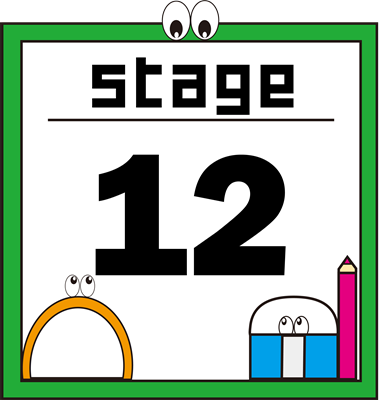
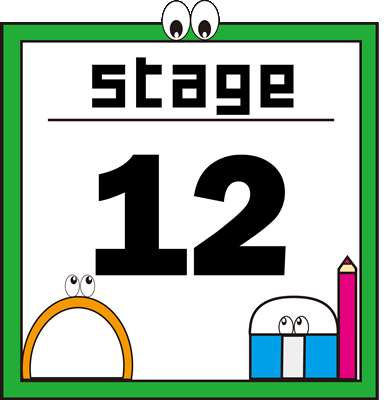
UIのアニメーションの実装
・一定間隔でビヨンド君、選択中のステージUIが伸び縮みするように変更
・背景の変更

Changed region(s): [[0.4627, 0.0, 0.5553, 0.03], [0.5553, 0.03, 0.5861, 0.06], [0.401, 0.03, 0.4319, 0.06]]

diff --git a/Hew2025_ProtoType/Scene/03_StageSelectScene/StageSelectScene.cpp b/Hew2025_ProtoType/Scene/03_StageSelectScene/StageSelectScene.cpp
@@ -28,29 +28,34 @@ StageSelectScene::StageSelectScene()
     this->p_sampler = nullptr;
     this->p_brendState = nullptr;
 }
+
 /**	@brief 	デストラクタ
 */
 StageSelectScene::~StageSelectScene()
 {
 	this->Finalize();
 }
+
 /**	@brief 	シーン全体の初期化
 */
 void	StageSelectScene::Initialize(void)
 {    
+    // 時刻の設定
+    this->lastUpdateTime = std::chrono::steady_clock::now();
+
     // カメラ
     if (!this->p_camera) { this->p_camera = new Camera; }
     this->p_camera->SetPosition(0.0f, 0.0f);
 
     //--------------------------------------------------------------------------
     //		 オブジェクト
-    //--------------------------------------------------------------------------	
+    //--------------------------------------------------------------------------
 
     // 背景
     if (!this->p_background) { this->p_background = new Object(this->p_camera); }
-    this->p_background->Init(L"Asset/back_img_01.png");
-    this->p_background->SetPos(0.0f, 0.0f, 0.0f);
-    this->p_background->SetSize(1920.0f, 1080.0f, 0.0f);
+    this->p_background->Init(L"Asset/background.png");
+    this->p_background->SetPos(-200.0f, 0.0f, 0.0f);
+    this->p_background->SetSize(1920.0f*2, 1080.0f*2, 0.0f);
 
     // ステージUI
 	int half = static_cast<int>(Stage::MAX) / 2;
@@ -100,7 +105,7 @@ void	StageSelectScene::Initialize(void)
     }
 
     // ビヨンド君傾ける
-    this->p_UI[static_cast<int>(SelectUI::BIYOND)]->SetAngle(-40.0f);
+    this->p_UI[static_cast<int>(SelectUI::BIYOND)]->SetAngle(-35.0f);
 
     // ポインター
     if (!this->p_point) { this->p_point = new PointCollider(DirectX::XMFLOAT3(0.0f, 0.0f, 0.0f)); }
@@ -212,10 +217,14 @@ void	StageSelectScene::Initialize(void)
     }
 }
 
-/**	@brief 	シーン全体の更新
+/** @brief  シーン全体の更新
 */
-void	StageSelectScene::Update(void)
+void StageSelectScene::Update(void)
 {
+    // 経過時間の計測
+    auto currentTime = std::chrono::steady_clock::now();
+    this->elapsedTime = currentTime - this->lastUpdateTime;
+
     this->p_input->Update();
 
     // ステージUIの移動
@@ -223,11 +232,15 @@ void	StageSelectScene::Update(void)
     if (this->p_input->Trigger("LEFT"))
     {
         movePos = this->stageUISize + this->space;
+        this->isSelect = true;
     }
     else if (this->p_input->Trigger("RIGHT"))
     {
         movePos = -this->stageUISize - this->space;
+        this->isSelect = true;
     }
+
+    // ステージがループするように処理
     for (int i = static_cast<int>(Stage::STAGE_1); i < static_cast<int>(Stage::MAX); i++)
     {
         auto pos = this->p_stageUI[i]->GetPos();
@@ -235,8 +248,8 @@ void	StageSelectScene::Update(void)
 
         auto& coll = this->p_stageUI[i]->GetCollider();
         // 左端なら右端に
-        if(coll.CheckCollision(*this->p_leftUI))
-        { 
+        if (coll.CheckCollision(*this->p_leftUI))
+        {
             this->p_stageUI[i]->SetPos(rightUIPos.x, rightUIPos.y, rightUIPos.z);
         }
         // 右端なら左端に
@@ -246,90 +259,49 @@ void	StageSelectScene::Update(void)
         }
     }
 
-    // 選択中のステージ
-    int sceneNum = 0;
-    for (int i = static_cast<int>(Stage::STAGE_1); i < static_cast<int>(Stage::MAX); i++)
+    // 選択中のステージを保持
+    if (this->isSelect)
     {
-        auto& coll = this->p_stageUI[i]->GetCollider();
-
-        if (this->p_point->CheckCollision(coll))
+        for (int i = static_cast<int>(Stage::STAGE_1); i < static_cast<int>(Stage::MAX); i++)
         {
-            //std::cout << std::to_string(i+1) << "ステージ" << std::endl;
-            // 選択中のステージを大きくする
-            this->p_stageUI[i]->SetSize(this->stageUISizeSelect, this->stageUISizeSelect, 0.0f);
-            this->p_stageUI[i]->SetPos(0.0f,(this->stageUISizeSelect - this->stageUISize) / 2.0f - 50.0f, 0.0f);
-            sceneNum = i;
+            auto& coll = this->p_stageUI[i]->GetCollider();
+
+            if (this->p_point->CheckCollision(coll))
+            {
+                // 選択中のステージを大きくする
+                this->p_stageUI[i]->SetSize(this->stageUISizeSelect, this->stageUISizeSelect, 0.0f);
+                this->p_stageUI[i]->SetPos(0.0f, (this->stageUISizeSelect - this->stageUISize) / 2.0f - 50.0f, 0.0f);
+                this->stageNum = i;
+            }
+            // サイズリセット
+            else
+            {
+                this->p_stageUI[i]->SetSize(this->stageUISize, this->stageUISize, 0.0f);
+                this->p_stageUI[i]->SetPos(this->p_stageUI[i]->GetPos().x, -50.0f, 0.0f);
+            }
         }
-        // サイズリセット
-        else 
-        { 
-            this->p_stageUI[i]->SetSize(this->stageUISize, this->stageUISize, 0.0f);
-            this->p_stageUI[i]->SetPos(this->p_stageUI[i]->GetPos().x, -50.0f, 0.0f);
-        }
+        this->isSelect = false;
+        this->isStretch = false;
+        this->lastUpdateTime = std::chrono::steady_clock::now();
+
+        // ビヨンド君のリサイズ
+        auto sizeBiyond = this->UISize[static_cast<int>(SelectUI::BIYOND)];
+        this->p_UI[static_cast<int>(SelectUI::BIYOND)]->SetSize(sizeBiyond.x, sizeBiyond.y, sizeBiyond.z);
     }
 
     // 選択中のステージに飛ぶ
     if (this->p_input->Press("SPACE"))
     {
-        //this->p_point->SetPosition(DirectX::XMFLOAT3(300.0f, 300.0f, 0.0f));
-        switch (static_cast<StageSelectScene::Stage>(sceneNum))
-        {
-        case StageSelectScene::Stage::STAGE_1:
-            this->p_sceneManager->ChangeScene(Scene::Stage_1);
-            return;
-            break;
-        case StageSelectScene::Stage::STAGE_2:
-            this->p_sceneManager->ChangeScene(Scene::Stage_2);
-            return;
-            break;
-        case StageSelectScene::Stage::STAGE_3:
-            this->p_sceneManager->ChangeScene(Scene::Stage_3);
-            return;
-            break;
-        case StageSelectScene::Stage::STAGE_4:
-            this->p_sceneManager->ChangeScene(Scene::Stage_4);
-            return;
-            break;
-        case StageSelectScene::Stage::STAGE_5:
-            this->p_sceneManager->ChangeScene(Scene::Stage_5);
-            return;
-            break;
-        case StageSelectScene::Stage::STAGE_6:
-            this->p_sceneManager->ChangeScene(Scene::Stage_6);
-            return;
-            break;
-        case StageSelectScene::Stage::STAGE_7:
-            this->p_sceneManager->ChangeScene(Scene::Stage_7);
-            return;
-            break;
-        case StageSelectScene::Stage::STAGE_8:
-            this->p_sceneManager->ChangeScene(Scene::Stage_8);
-            return;
-            break;
-        case StageSelectScene::Stage::STAGE_9:
-            this->p_sceneManager->ChangeScene(Scene::Stage_9);
-            return;
-            break;
-        case StageSelectScene::Stage::STAGE_10:
-            this->p_sceneManager->ChangeScene(Scene::Stage_10);
-            return;
-            break;
-        case StageSelectScene::Stage::STAGE_11:
-            this->p_sceneManager->ChangeScene(Scene::Stage_11);
-            return;
-            break;
-        case StageSelectScene::Stage::STAGE_12:
-            this->p_sceneManager->ChangeScene(Scene::Stage_12);
-            return;
-            break;
-        default:
-            break;
-        }
+        this->SelectStage(this->stageNum);
+        return;
     }
 
+    // アニメーション
+    this->AnimateUI();
+
     //--------------------------------------------------------------------------
-    //		オブジェクトの更新
-    //--------------------------------------------------------------------------	
+    //      オブジェクトの更新
+    //--------------------------------------------------------------------------    
     this->p_background->Update();
     for (int i = static_cast<int>(Stage::STAGE_1); i < static_cast<int>(Stage::MAX); i++)
     {
@@ -342,6 +314,40 @@ void	StageSelectScene::Update(void)
 
     // カメラの更新
     this->p_camera->Update();
+}
+
+/** @brief UIのアニメーション処理 
+*/
+void StageSelectScene::AnimateUI()
+{
+    // 伸ばす
+    if (!this->isStretch)
+    {
+        auto sizeStage = this->p_stageUI[this->stageNum]->GetSize();
+        auto sizeBiyond = this->p_UI[static_cast<int>(SelectUI::BIYOND)]->GetSize();
+
+        this->p_stageUI[stageNum]->SetSize(sizeStage.x + 2.5f, sizeStage.y + 2.5f, sizeStage.z);
+        this->p_UI[static_cast<int>(SelectUI::BIYOND)]->SetSize(sizeBiyond.x + 4.0f, sizeBiyond.y + 2.0f, sizeBiyond.z);
+
+    }
+
+    // 縮める
+    else
+    {
+        auto sizeStage = this->p_stageUI[stageNum]->GetSize();
+        auto sizeBiyond = this->p_UI[static_cast<int>(SelectUI::BIYOND)]->GetSize();
+
+        this->p_stageUI[stageNum]->SetSize(sizeStage.x - 2.5f, sizeStage.y - 2.5f, sizeStage.z);
+        this->p_UI[static_cast<int>(SelectUI::BIYOND)]->SetSize(sizeBiyond.x - 4.0f, sizeBiyond.y - 2.0f, sizeBiyond.z);
+
+    }
+
+    // 経過時間のリセット
+    if (this->elapsedTime > this->interval)
+    {
+        this->isStretch = !this->isStretch;
+        this->lastUpdateTime = std::chrono::steady_clock::now();
+    }
 }
 
 /**	@brief 	シーン全体の描画
@@ -412,4 +418,53 @@ void	StageSelectScene::Finalize(void)
     SAFE_DELETE(this->p_sampler);       // サンプラー
 
     SAFE_RELEASE(this->p_brendState);   // ブレンドステート
+}
+
+/**	@brief 	ステージの選択
+*	@param	in&t _stageNum
+*/
+void StageSelectScene::SelectStage(int& _stageNum)
+{
+    switch (static_cast<StageSelectScene::Stage>(_stageNum))
+    {
+    case StageSelectScene::Stage::STAGE_1:
+        this->p_sceneManager->ChangeScene(Scene::Stage_1);
+        break;
+    case StageSelectScene::Stage::STAGE_2:
+        this->p_sceneManager->ChangeScene(Scene::Stage_2);
+        break;
+    case StageSelectScene::Stage::STAGE_3:
+        this->p_sceneManager->ChangeScene(Scene::Stage_3);
+        break;
+    case StageSelectScene::Stage::STAGE_4:
+        this->p_sceneManager->ChangeScene(Scene::Stage_4);
+        break;
+    case StageSelectScene::Stage::STAGE_5:
+        this->p_sceneManager->ChangeScene(Scene::Stage_5);
+        break;
+    case StageSelectScene::Stage::STAGE_6:
+        this->p_sceneManager->ChangeScene(Scene::Stage_6);
+        break;
+    case StageSelectScene::Stage::STAGE_7:
+        this->p_sceneManager->ChangeScene(Scene::Stage_7);
+        break;
+    case StageSelectScene::Stage::STAGE_8:
+        this->p_sceneManager->ChangeScene(Scene::Stage_8);
+        break;
+    case StageSelectScene::Stage::STAGE_9:
+        this->p_sceneManager->ChangeScene(Scene::Stage_9);
+        break;
+    case StageSelectScene::Stage::STAGE_10:
+        this->p_sceneManager->ChangeScene(Scene::Stage_10);
+        break;
+    case StageSelectScene::Stage::STAGE_11:
+        this->p_sceneManager->ChangeScene(Scene::Stage_11);
+        break;
+    case StageSelectScene::Stage::STAGE_12:
+        this->p_sceneManager->ChangeScene(Scene::Stage_12);
+        break;
+    default:
+        break;
+    }
+    return;
 }

diff --git a/Hew2025_ProtoType/Scene/03_StageSelectScene/StageSelectScene.h b/Hew2025_ProtoType/Scene/03_StageSelectScene/StageSelectScene.h
@@ -16,6 +16,7 @@
 
 #include<string>
 #include<array>
+#include<chrono>
 
 /**	@file	StageSelectScene.h
 *	@brief	ステージセレクト
@@ -45,16 +46,37 @@ public:
 	/**	@brief 	シーン全体の終了処理
 	*/
 	void	Finalize(void)override;
+
 private:
-	float space = 250.0f;			// 幅
-	float stageUISize = 270.0f;			// UIサイズ
-	float stageUISizeSelect = 350.0f;	// 選択時のUIサイズ
+	/**	@brief 	ステージの選択
+	*	@param	in&t _stageNum
+	*/
+	void SelectStage(int& _stageNum);
+
+	/**	@brief 	ステージUIのアニメーション
+	*	@param	in&t _stageNum
+	*/
+	void AnimateUI();
+private:
+	std::chrono::time_point<std::chrono::steady_clock> lastUpdateTime;
+	std::chrono::milliseconds interval{ 500 };			// 時間間隔
+	std::chrono::steady_clock::duration elapsedTime;	// 経過時間
+		
+	float space = 250.0f;				// 幅
+	float stageUISize = 250.0f;			// UIサイズ
+	float stageUISizeSelect = 330.0f;	// 選択時のUIサイズ
+	int stageNum = 0;					// ステージの番号
+
 	BaseCollider* p_leftUI;			// UIの左端
 	BaseCollider* p_rightUI;		// UIの右端
 
 	DirectX::XMFLOAT3 leftUIPos;	// UIの左端
 	DirectX::XMFLOAT3 rightUIPos;	// UIの右端
 
+	bool isSelect = true;			// 選んだか
+	bool isStretch = false;			// 伸びきったか
+
+	// ステージUI
 	enum class Stage
 	{
 		STAGE_1,
@@ -73,7 +95,8 @@ private:
 		NUM = STAGE_12,
 		MAX,
 	};
-
+	
+	// セレクト画面UI
 	enum class SelectUI
 	{
 		FRAME,
